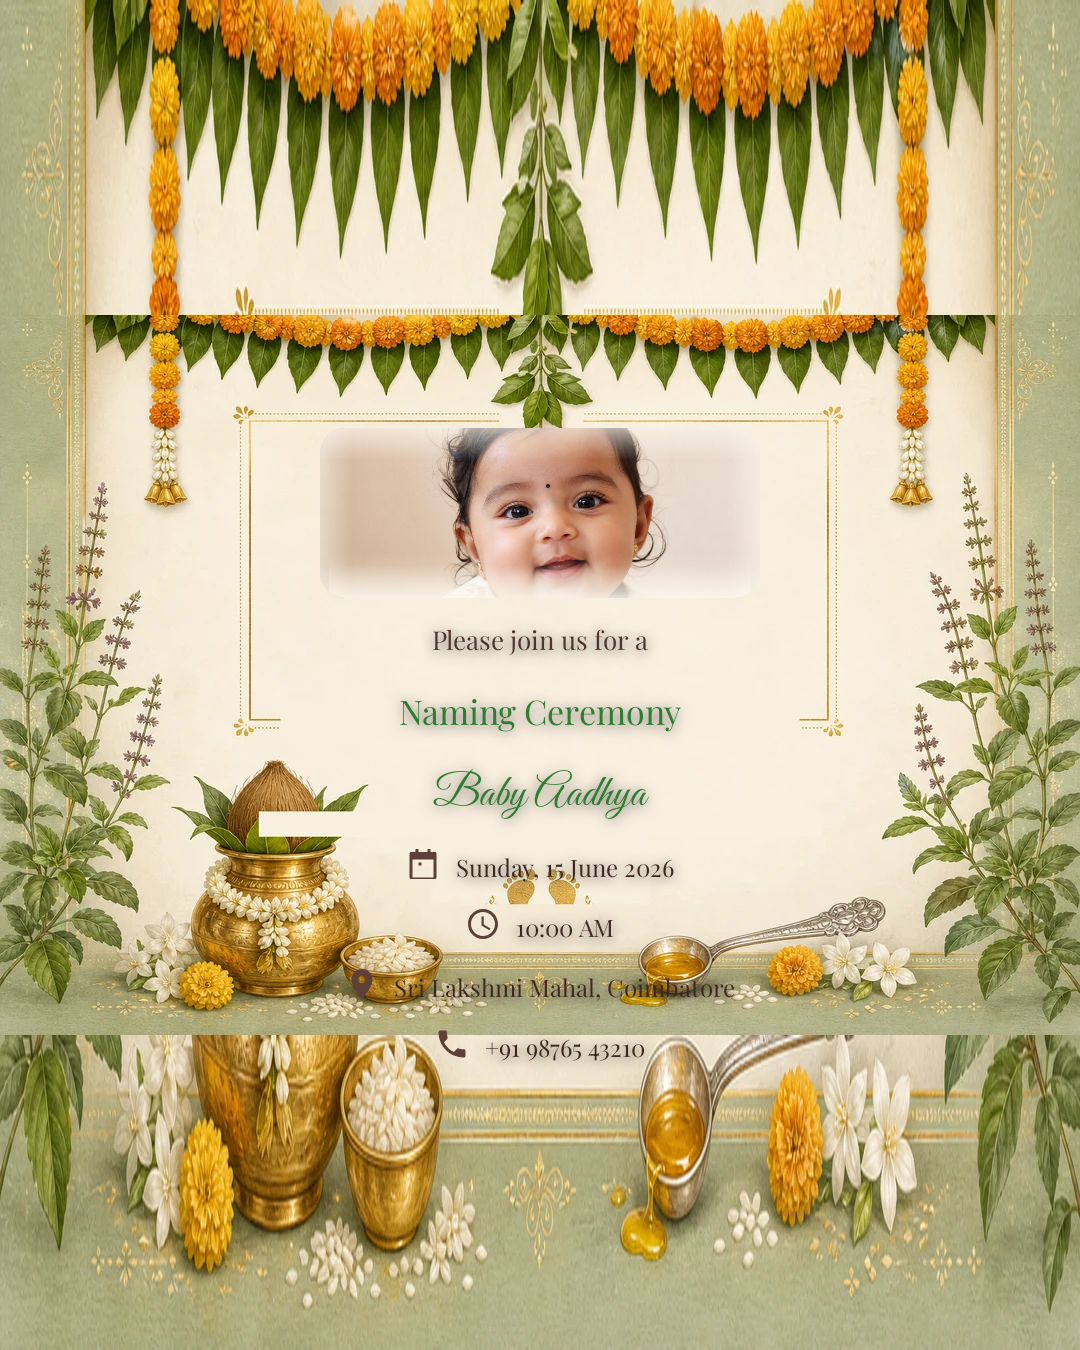
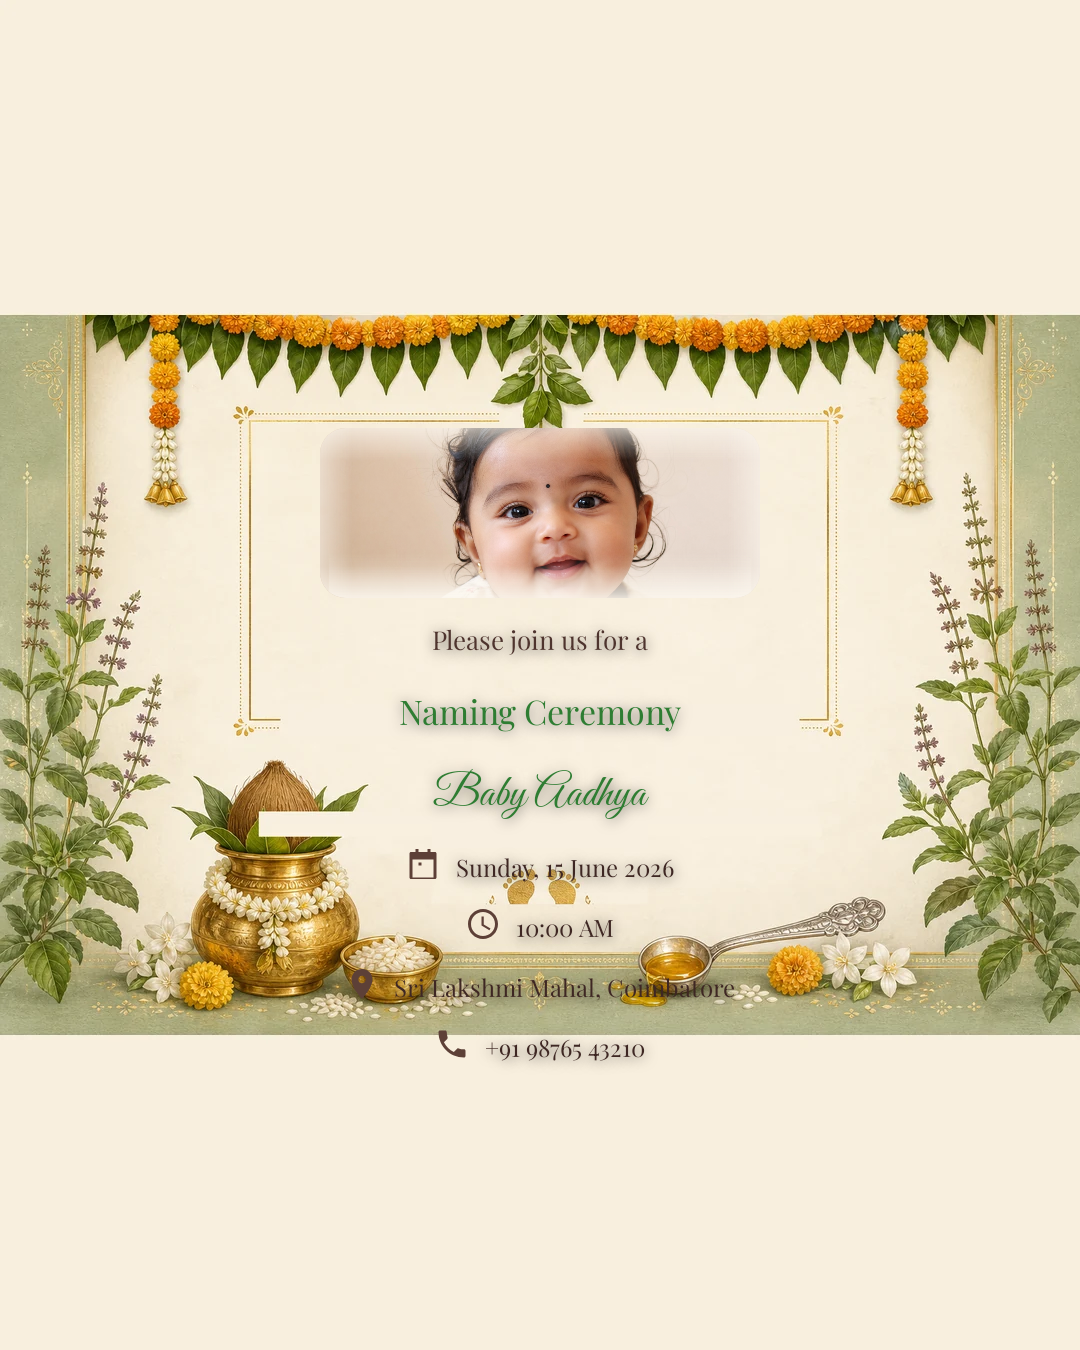
Revert to width-fit letterbox; remove stretched décor bands
Center-cover cropped sides; stretched top/bottom bands caused duplicated
toran/kalash seams. Restore proven conversion: scale to 1080px width,
cream letterbox pads. Regenerate engagement and naming WebPs.

diff --git a/app/src/main/java/com/vaangainvite/core/image/PhotoCardPlacement.kt b/app/src/main/java/com/vaangainvite/core/image/PhotoCardPlacement.kt
@@ -18,7 +18,7 @@ internal object PhotoCardPlacement {
         val cornerRadius: Float = 26f
     )
 
-    /** Measured on width-fit WebPs with extended top/bottom décor (1080×1350). */
+    /** Measured on width-fit WebPs with cream letterbox (1080×1350). */
     private val traditionalPhoto = RectF(320f, 428f, 760f, 598f)
 
     private val templateIds = (1..5).flatMap { i ->

diff --git a/tools/convert_photo_backgrounds.py b/tools/convert_photo_backgrounds.py
@@ -6,17 +6,15 @@ from __future__ import annotations
 import argparse
 from pathlib import Path
 
-from PIL import Image, ImageDraw, ImageFilter
+from PIL import Image, ImageDraw
 
 TARGET_W = 1080
-# Cream band where the app draws event copy (below arch photo opening).
 TEXT_BAND = (210, 442, 870, 1012)
 TARGET_H = 1350
-TARGET_RATIO = TARGET_W / TARGET_H
 
 
 def sample_edge_color(im: Image.Image) -> tuple[int, int, int]:
-    """Cream fill fallback (from center panel)."""
+    """Cream fill for vertical letterbox pads (from center panel)."""
     x, y = im.width // 2, im.height // 2
     patch = im.crop((x - 24, y - 24, x + 24, y + 24))
     pixels = list(patch.get_flattened_data() if hasattr(patch, "get_flattened_data") else patch.getdata())
@@ -24,20 +22,10 @@ def sample_edge_color(im: Image.Image) -> tuple[int, int, int]:
     return pixels[len(pixels) // 2]
 
 
-def stretch_band_to_height(band: Image.Image, height: int) -> Image.Image:
-    """Vertically scale a decorative strip to fill a letterbox pad."""
-    if height <= 0:
-        return band
-    if height <= band.height:
-        return band.crop((0, band.height - height, band.width, band.height))
-    stretched = band.resize((band.width, height), Image.Resampling.LANCZOS)
-    return stretched.filter(ImageFilter.GaussianBlur(radius=0.35))
-
-
 def fit_portrait_card(im: Image.Image) -> Image.Image:
     """
-    Scale to full card width (keeps side border art), then fill top/bottom to 1350px
-    by extending the decorative edge strips — not center-crop and not flat cream bars.
+    Scale landscape art to full card width (side borders stay visible).
+    Letterbox top/bottom with cream sampled from the panel — no crop, no stretch.
     """
     w, h = im.size
     scale = TARGET_W / w
@@ -49,30 +37,13 @@ def fit_portrait_card(im: Image.Image) -> Image.Image:
         top = (new_h - TARGET_H) // 2
         return scaled.crop((0, top, TARGET_W, top + TARGET_H))
 
-    pad_total = TARGET_H - new_h
-    pad_top = pad_total // 2
-    pad_bottom = pad_total - pad_top
-
-    # Top/bottom décor bands from the scaled art (toran, florals, kalash row).
-    top_band_h = max(48, int(new_h * 0.14))
-    bottom_band_h = max(48, int(new_h * 0.14))
-    top_band = scaled.crop((0, 0, new_w, top_band_h))
-    bottom_band = scaled.crop((0, new_h - bottom_band_h, new_w, new_h))
-
     fill = sample_edge_color(scaled)
     out = Image.new("RGB", (TARGET_W, TARGET_H), fill)
-
-    top_fill = stretch_band_to_height(top_band, pad_top)
-    bottom_fill = stretch_band_to_height(bottom_band, pad_bottom)
-
-    out.paste(top_fill, (0, 0))
-    out.paste(scaled, (0, pad_top))
-    out.paste(bottom_fill, (0, pad_top + new_h))
+    out.paste(scaled, (0, (TARGET_H - new_h) // 2))
     return out
 
 
 def sample_panel_color(im: Image.Image) -> tuple[int, int, int]:
-    """Pick a neutral fill from the panel beside the arch (avoids gold frame pixels)."""
     x, y = im.width // 2, int(im.height * 0.36)
     patch = im.crop((x - 20, y - 20, x + 20, y + 20))
     pixels = list(patch.get_flattened_data() if hasattr(patch, "get_flattened_data") else patch.getdata())
@@ -81,7 +52,6 @@ def sample_panel_color(im: Image.Image) -> tuple[int, int, int]:
 
 
 def clear_placeholder_text(im: Image.Image) -> Image.Image:
-    """Remove AI placeholder wording so only app-rendered text appears."""
     fill = sample_panel_color(im)
     out = im.copy()
     ImageDraw.Draw(out).rectangle(TEXT_BAND, fill=fill)

diff --git a/docs/samples/engagement/README.md b/docs/samples/engagement/README.md
@@ -16,6 +16,6 @@ Five **illustrated WebP** backgrounds (`bg_engagement_01` … `05`) with:
 
 ## Replace artwork
 
-1. Save designed PNGs as `tools/bg_sources/engagement_XX_source.png` (landscape ~3:2; scaled to full width with top/bottom décor extended to 1080×1350).
+1. Save designed PNGs as `tools/bg_sources/engagement_XX_source.png` (landscape ~3:2; scaled to full width, cream letterbox top/bottom).
 2. `python3 tools/convert_photo_backgrounds.py`
 3. `PREVIEW_OUTPUT_DIR=docs/samples/engagement ./gradlew testDebugUnitTest --tests "EngagementSampleExportTest"`

diff --git a/docs/samples/naming/README.md b/docs/samples/naming/README.md
@@ -14,6 +14,6 @@ Five **designed WebP** namakaran photo cards (same layout as engagement):
 | naming_04 | Moon & Lotus |
 | naming_05 | Tulsi Paladai Gold |
 
-Sources are landscape ~3:2; conversion keeps full width and extends top/bottom border art to 1080×1350.
+Sources are landscape ~3:2; conversion scales to full width with cream letterbox top/bottom (preserves full border art).
 
 Regenerate: `PREVIEW_OUTPUT_DIR=docs/samples/naming ./gradlew testDebugUnitTest --tests "NamingSampleExportTest"`
